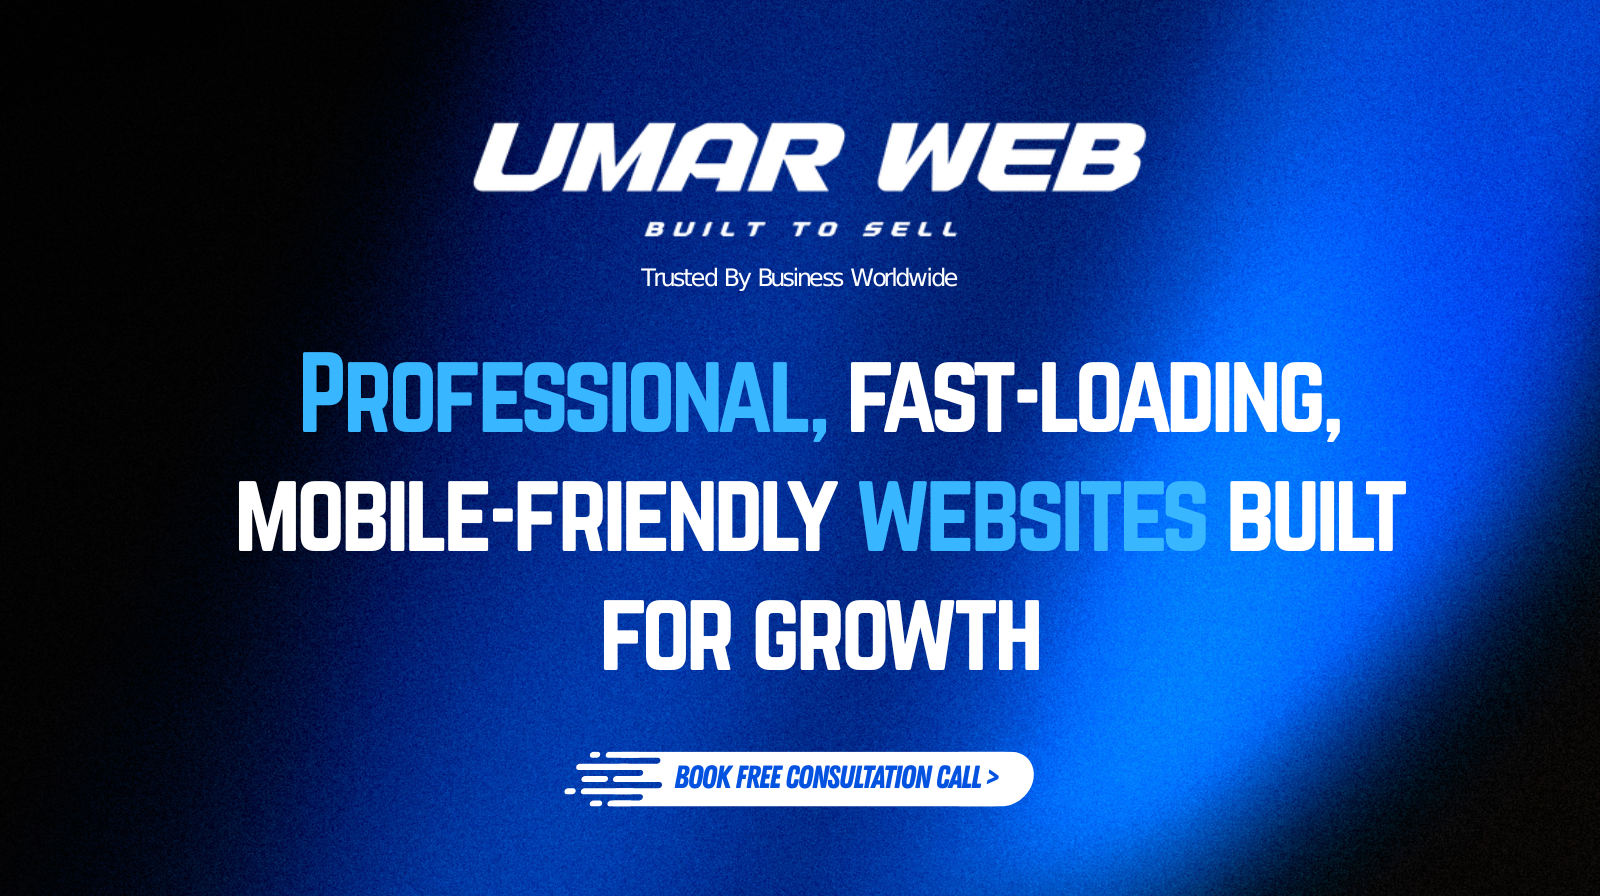
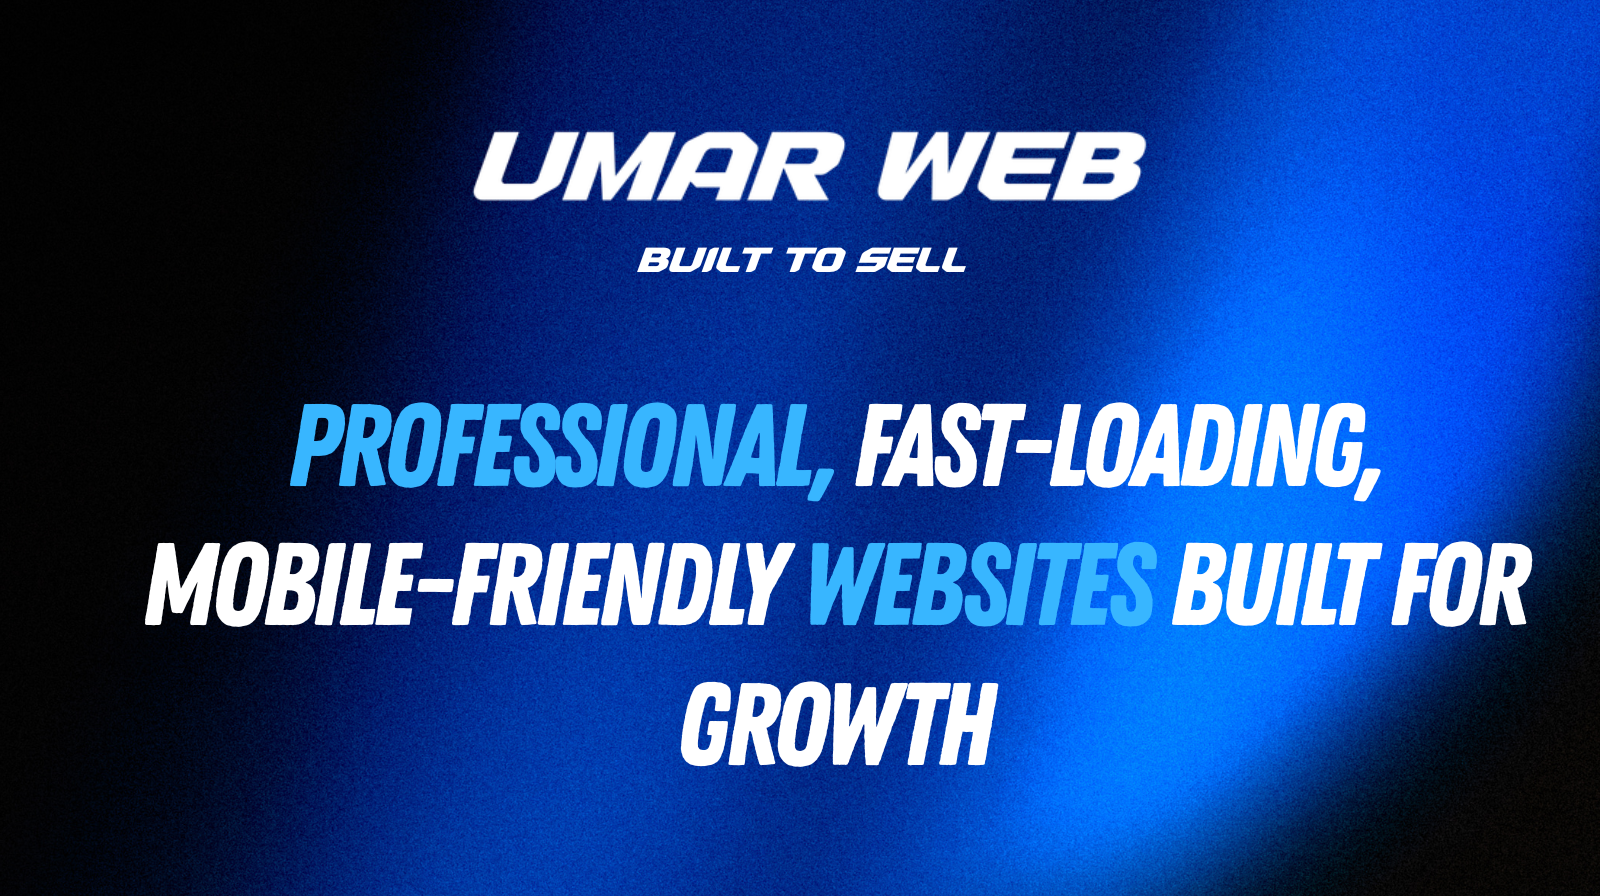
changed fonts and made more responsive

Changed region(s): [[0.0938, 0.375, 0.9688, 0.9062], [0.2812, 0.125, 0.7188, 0.3438]]

diff --git a/app/components/Hero.tsx b/app/components/Hero.tsx
@@ -51,25 +51,22 @@ const Hero = () => {
           />
         </div>
 
-        {/* Content */}
         <motion.div
           className="max-w-3xl"
           initial="hidden"
           animate="visible"
           transition={{ staggerChildren: 0.15 }}
         >
-          {/* Badge */}
           <motion.div
-            className="mb-8 backdrop-blur-lg text-xs md:text-sm rounded-md border border-white/30 py-2 px-4 inline-flex items-center text-white/85"
+            className="mb-8 backdrop-blur-lg text-xs md:text-sm rounded-md border border-white/30 py-1 pr-2 pl-2 inline-flex items-center text-white/85"
             variants={fadeUp}
           >
-            <span className="bg-blue-600 rounded-sm font-semibold px-2 py-1 mr-2">
+            <span className="bg-blue-600 rounded-sm font-semibold px-2 py-2 mr-2">
               NEW
             </span>
             Trusted by businesses worldwide
           </motion.div>
 
-          {/* Heading */}
           <motion.h1
             className="text-5xl sm:text-4xl md:text-6xl lg:text-7xl font-semibold leading-tight"
             variants={fadeUp}
@@ -81,37 +78,19 @@ const Hero = () => {
 
           {/* Subtext */}
           <motion.p
-            className="mt-6 text-base sm:text-lg md:text-xl text-gray-300 max-w-xl"
+            className="mt-6 text-base sm:text-md md:text-lg text-gray-300 max-w-xl"
             variants={fadeRight}
           >
             We specialize in developing custom websites and systems that reflect
             your brand’s identity and convert customers into sales.
           </motion.p>
 
-          {/* Buttons */}
-          {/* <div className="mt-8 flex flex-wrap gap-4">
-            <Button
-              className="bg-blue-600 hover:bg-blue-700 text-base md:text-md text-white border border-white/30 font-semibold md:px-6 md:py-3 px-4 py-2"
-              onClick={() => router.push("/schedule-call")}
-              effect={"shineHover"}
-            >
-              FREE Strategy Call
-            </Button>
-            <Button
-              effect={"shineHover"}
-              className="bg-black/50 hover:bg-black/60 text-md border border-white/30 font-semibold px-6 py-3"
-              onClick={() => router.push("#strategy")}
-            >
-              Our Process
-            </Button>
-          </div> */}
-          {/* Buttons */}
           <motion.div
             className="mt-8 flex flex-wrap gap-3"
             variants={fadeRight}
           >
             <Button
-              className="bg-blue-600 hover:bg-blue-700 text-sm sm:text-base md:text-md text-white border border-white/30 font-semibold px-3 py-2 sm:px-5 sm:py-2.5 md:px-6 md:py-3"
+              className="bg-blue-600 hover:bg-blue-700 text-sm  md:text-md text-white border border-white/30 font-semibold px-3 py-2 md:px-4 md:py-2"
               onClick={() => router.push("/schedule-call")}
               effect={"shineHover"}
             >
@@ -119,7 +98,7 @@ const Hero = () => {
             </Button>
             <Button
               effect={"shineHover"}
-              className="bg-black/50 hover:bg-black/60 text-sm sm:text-base md:text-md border border-white/30 font-semibold px-3 py-2 sm:px-5 sm:py-2.5 md:px-6 md:py-3"
+              className="bg-black/50 hover:bg-black/60 text-sm md:text-md border border-white/30 font-semibold px-3 py-2 md:px-4 md:py-2"
               onClick={() => router.push("/#strategy")}
             >
               Our Process

diff --git a/app/components/Footer.tsx b/app/components/Footer.tsx
@@ -92,27 +92,30 @@ const Footer = () => {
                 alt="Umar Web Logo"
                 className="object-cover cursor-pointer"
                 fill
-                onClick={() => router.push("#home")}
+                onClick={() => router.push("/#home")}
               />
             </div>
-            <div className="w-[100%] h-[1px] bg-gradient-to-r from-transparent via-gray-500 to-transparent my-3" />
+            <div className="w-[100%] h-[1px] bg-gradient-to-r from-transparent via-gray-500 to-transparent mt-6" />
           </div>
 
           {/* Email Subscription */}
+          <div className="font-semibold text-2xl mt-6">
+            Be the First to Know
+          </div>
           <motion.form
             initial="hidden"
             whileInView="visible"
-            viewport={{ once: true, amount: 0.1 }}
+            viewport={{ once: true, amount: 0.2 }}
             style={{ willChange: "transform, opacity" }}
             variants={fadeRight}
             transition={{ duration: 0.5 }}
-            className="flex items-center bg-black/40 rounded-xl overflow-hidden border border-white/30 px-1 py-1 pl-3 pr-1 justify-center max-w-sm"
+            className="flex items-center bg-black/40 rounded-xl overflow-hidden border border-white/30 px-1 py-1 pl-3 pr-1 justify-center max-w-md"
             onSubmit={handleSubmit}
           >
             <input
               placeholder="Enter Your Email..."
               className="flex-1 bg-transparent text-gray-300 placeholder-gray-500 focus:outline-none 
-              text-xs sm:text-sm md:text-base"
+              text-xs sm:text-sm md:text-sm"
               value={email}
               onChange={(e) => setEmail(e.target.value)}
             />
@@ -130,6 +133,17 @@ const Footer = () => {
               Subscribe
             </Button>
           </motion.form>
+          <div className="flex items-center">
+            Or Feel Free to{" "}
+            <Button
+              onClick={() => router.push("mailto:umar@umarweb.com")}
+              variant={"link"}
+              effect={"hoverUnderline"}
+              className="text-blue-500 hover:text-blue-400 hover:cursor-pointer p-0 mx-2 text-base"
+            >
+              Email Us &#8599;
+            </Button>
+          </div>
         </div>
 
         {/* Middle Section (Navigation Links) */}

diff --git a/app/components/Testimonials.tsx b/app/components/Testimonials.tsx
@@ -18,10 +18,9 @@ const Testimonials = () => {
       "/entrepreneur.jpg",
       "/businessman.jpg",
       "/man.jpg",
-      "/girl.jpg",
       "/man-img.jpg",
       "/2.png",
-      "/woman.jpg",
+      "/girl.jpg",
       "/1.png",
       "/woman2.jpg",
     ],
@@ -29,7 +28,6 @@ const Testimonials = () => {
       "Erick Martinez",
       "Michael Johnson",
       "David Chen",
-      "Emma Williams",
       "James Anderson",
       "Lisa Thompson",
       "Sophia Brown",
@@ -40,7 +38,6 @@ const Testimonials = () => {
       "Fitness Studio Owner",
       "Restaurant Owner",
       "Travel Agency Director",
-      "Local Bakery Owner",
       "Consulting Firm Partner",
       "Boutique Shop Owner",
       "Cafe Owner",
@@ -51,7 +48,7 @@ const Testimonials = () => {
       "I never realized how much a professional website could change things. In 2025, having an online presence isn’t optional — it’s essential. This platform finally puts us where our clients can find us.",
       "For my fitness studio, the site made booking classes a breeze for clients. Honestly, seeing people sign up online without me calling them feels incredible.",
       "2025 is incomplete without a proper online presence. It’s where people look first. This website not only looks professional but makes our brand memorable.",
-      "I run a small bakery, and the site has become the window to our creations. People check online before visiting, and that’s increased foot traffic a lot.",
+
       "Our website helped travelers discover our packages more easily. A few even mentioned they found us on Google — that visibility alone is worth it.",
       "I never thought having a website could make my boutique feel so alive online. Customers explore collections before stepping in, which makes them more curious to visit.",
       "For my cafe, having an online platform that shares the menu and story keeps customers informed. People genuinely appreciate it when they check online before coming.",

diff --git a/app/components/WorkCards.tsx b/app/components/WorkCards.tsx
@@ -47,10 +47,10 @@ const WorkCards = () => {
             </button>
           </div>
 
-          <span className="text-lg font-semibold mb-4 relative z-10">
+          <span className="text-2xl font-semibold mb-6 relative z-10">
             Vision
           </span>
-          <p className="text-gray-300 text-sm relative z-10">
+          <p className="text-gray-300 text-sm relative z-10 mt-2">
             We start by diving deep into your brand — your story, goals, and
             style. Together, we craft a rock-solid plan that sets the stage for
             a website built to convert and impress.
@@ -93,10 +93,10 @@ const WorkCards = () => {
             </button>
           </div>
 
-          <span className="text-lg font-semibold mb-4 relative z-10">
+          <span className="text-2xl font-semibold mb-6 relative z-10">
             Build
           </span>
-          <p className="text-gray-300 text-sm relative z-10">
+          <p className="text-gray-300 text-sm relative z-10 mt-2">
             Once the plan is ready, we transform your vision into a stunning,
             functional website. You will see progress in real-time, share
             feedback easily, and stay fully in the loop as your site takes
@@ -140,10 +140,10 @@ const WorkCards = () => {
             </button>
           </div>
 
-          <span className="text-lg font-semibold mb-4 relative z-10">
+          <span className="text-2xl font-semibold mb-6 relative z-10">
             Launch
           </span>
-          <p className="text-gray-300 text-sm relative z-10">
+          <p className="text-gray-300 text-sm relative z-10 mt-2">
             After every detail is fine-tuned, we prep everything for a smooth,
             stress-free launch. You will walk away with all the tools, training,
             and support to keep your site thriving.

diff --git a/app/layout.tsx b/app/layout.tsx
@@ -1,5 +1,5 @@
 import type { Metadata } from "next";
-import { League_Spartan } from "next/font/google";
+import { Montserrat } from "next/font/google";
 import "./globals.css";
 import Navbar from "./components/Navbar";
 
@@ -9,9 +9,10 @@ import SmoothScrollProvider from "./components/ui/SmoothScrollProvider";
 import Script from "next/script";
 import GradualBlurWrapper from "./components/ui/GradualBlurWrapper";
 
-const league_spartan = League_Spartan({
-  variable: "--font-league_spartan",
+const montserrat = Montserrat({
+  variable: "--font-montserrat",
   subsets: ["latin"],
+  weight: ["300", "400", "600"],
 });
 
 export const metadata: Metadata = {
@@ -74,11 +75,10 @@ export default function RootLayout({
 }>) {
   return (
     <html lang="en" data-arp="" dir="ltr">
-      <body className={`${league_spartan.variable} antialiased bg-black`}>
+      <body className={`${montserrat.variable} antialiased bg-black`}>
         <CursorFollower />
         <Navbar />
         <SmoothScrollProvider>{children}</SmoothScrollProvider>
-        {/* {children} */}
         <GradualBlurWrapper />
 
         <Footer />

diff --git a/app/contact/page.tsx b/app/contact/page.tsx
@@ -99,14 +99,14 @@ const Contact = () => {
       </div>
 
       <motion.div
-        className="backdrop-blur-xl text-sm rounded-md border border-white/30 py-3 w-auto px-3 text-white/85 mb-16"
+        className="backdrop-blur-xl text-sm rounded-md border border-white/30 py-3 w-auto pr-2 pl-1 text-white/85 mb-16"
         initial="hidden"
         whileInView={"visible"}
         viewport={{ once: true, amount: 0.1 }}
         style={{ willChange: "transform, opacity" }}
         variants={fadeUp}
       >
-        <span className="bg-blue-600 rounded-md font-semibold px-2 py-2 mr-3">
+        <span className="bg-blue-600 rounded-md font-semibold px-2 py-2 mr-2">
           24/7
         </span>
         Let&apos;s Work Together

diff --git a/app/components/Navbar.tsx b/app/components/Navbar.tsx
@@ -30,8 +30,6 @@ const Navbar = () => {
   }, [scrollDirection]);
 
   const navItems = [
-    { name: "Portfolio", href: "/#about" },
-    { name: "Work", href: "/#strategy" },
     { name: "Testimonials", href: "/#testimonials" },
     { name: "Schedule  Free Call", href: "/schedule-call" },
     { name: "Contact", href: "/contact" },
@@ -63,7 +61,7 @@ const Navbar = () => {
         </div>
 
         {/* Middle Links - hidden on small screens */}
-        <div className="hidden md:flex items-center space-x-5">
+        <div className="hidden md:flex items-center space-x-5 mx-5">
           {navItems.map((item) => (
             <Button
               key={item.name}

diff --git a/app/components/ui/BorderBtn.tsx b/app/components/ui/BorderBtn.tsx
@@ -14,7 +14,7 @@ const BorderBtn = ({ text }: { text: string }) => {
       className="relative flex items-center justify-center gap-2 
         px-3 py-1.5 sm:px-3 sm:py-1.5 md:px-4.5 md:py-2 
         rounded-md bg-black/30 border border-white/10 
-        text-xs sm:text-sm md:text-base lg:text-md 
+        text-xs  md:text-sm lg:text-base 
         text-white shadow-md transition mb-8 sm:mb-10 md:mb-12"
     >
       {/* Blue top highlight */}

diff --git a/app/components/AnimatedBtn.tsx b/app/components/AnimatedBtn.tsx
@@ -17,7 +17,7 @@ export default function ShinyButton({
         relative 
         px-3 py-2 text-sm 
         sm:px-4 sm:py-2 sm:text-base 
-        md:px-5 md:py-3 md:text-lg 
+        md:px-3 md:py-3 md:text-lg 
         font-semibold text-white rounded-md cursor-pointer 
         bg-blue-600 
         shadow-[0_0_6px_rgba(59,130,246,0.7),0_0_15px_rgba(59,130,246,0.5)] 

diff --git a/app/components/ui/SmoothScrollProvider.tsx b/app/components/ui/SmoothScrollProvider.tsx
@@ -6,9 +6,9 @@ import React, { useEffect } from "react";
 const SmoothScrollProvider = ({ children }: { children: React.ReactNode }) => {
   useEffect(() => {
     const lenis = new Lenis({
-      duration: 1.2,
+      duration: 0.8,
       smoothWheel: true,
-      lerp: 0.125,
+      lerp: 0.1,
     });
 
     function raf(time: number) {

diff --git a/app/globals.css b/app/globals.css
@@ -185,5 +185,5 @@ body {
 } */
 
 * {
-  font-family: var(--font-league_spartan), sans-serif;
+  font-family: var(--font-montserrat), sans-serif;
 }
